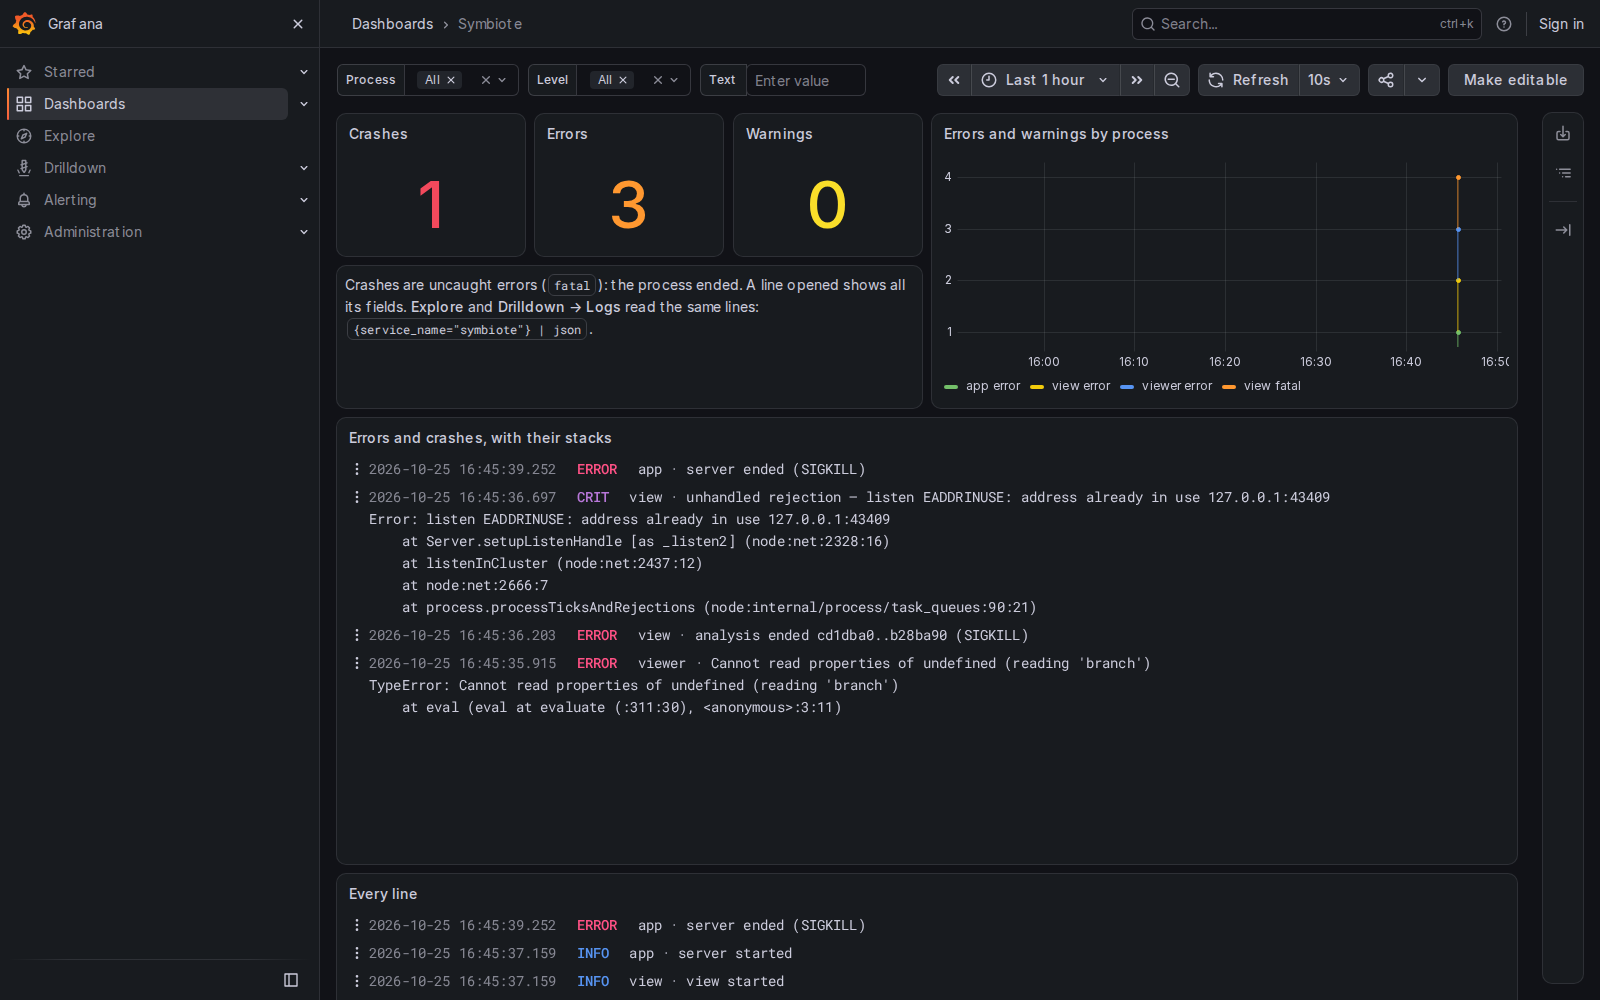
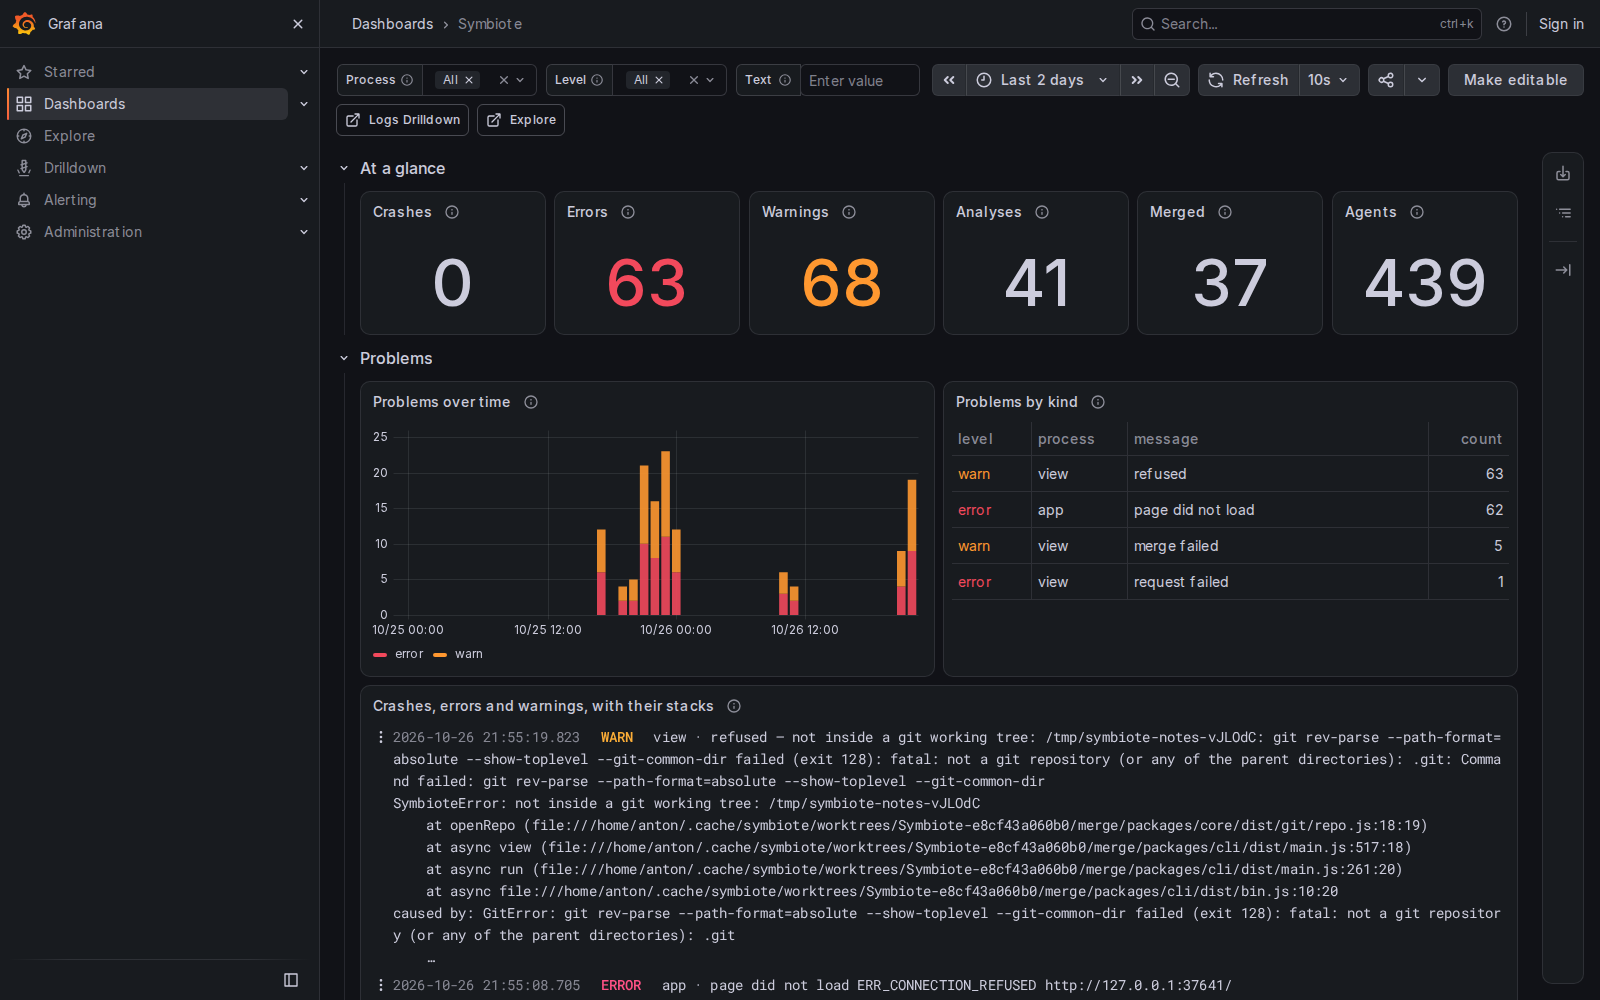
Docs: LG2 as built and its results; the dashboard in the configuration page
The plan's As built (no sparklines: a range query's buckets summed to
4,539 lines where the range held 4,504; rows cut to a message's first
line and a stack's first six, since Grafana 13 opens a row taller than
its panel at its end; tiles renamed to fit at 1440 px) and results; the
journal's entry; the configuration page says what the dashboard shows,
with a new screenshot of the person's two days; the log package's notes
say where the dashboard is checked.

Decisions renumbered 441-444: feature/complete-revamp (V61) took 437-440
from the same main meanwhile.

diff --git a/docs/plan/lg2-dashboard.md b/docs/plan/lg2-dashboard.md
@@ -2,9 +2,10 @@
 
 [Index](../PLAN.md) · [Journal](../journal/lg2-dashboard.md)
 
-**Status:** planned (2026-10-26), on branch `feature/grafana-dashboard` (a workspace started in
-Symbiote, from `main` at `3365699`). Plan OK'd by the person ("1. Yes 2. Yes": the e2e fix in
-LG2, the requests in a section of their own).
+**Status:** ready for review (2026-10-26), on branch `feature/grafana-dashboard` (a workspace
+started in Symbiote, from `main` at `3365699`). Plan OK'd by the person ("1. Yes 2. Yes": the e2e
+fix in LG2, the requests in a section of their own). As built and results under "As built (LG2)"
+below.
 
 **Problem** (asked: "The current grafana dashboard is too simple..Make it more readable."). LG1's
 dashboard, measured on the person's two days of real lines (`~/.cache/symbiote/logs`,
@@ -123,11 +124,61 @@ then `sum by` on an extracted field, `unwrap ms` with `quantile_over_time`, `lab
 
 | # | Question | Decision | Why |
 |---|---|---|---|
-| 437 | What does the dashboard show, in what order? | **At a glance, Problems, Activity, Server (collapsed), Lines; requests only in Server** | the questions in the order they are asked; requests were 41 % of "Every line" |
-| 438 | What does colour mean? | **A level only, the same in every panel (Grafana's log-level colours); 0 in the text colour; other series a fixed colour by name** | a red 0 read as an alarm; series coloured by process and level said nothing of severity |
-| 439 | May tests write into the person's log folder? | **Never: the desktop specs run with `SYMBIOTE_LOG=off`, as the others** | 95 % of the problems shown were the tests' |
-| 440 | How is the dashboard checked? | **Its structure in `pnpm check`; every panel's queries through Grafana in `logs:check`** | a broken dashboard fails silently in Grafana; the queries need Loki, which `pnpm check` must not |
+| 441 | What does the dashboard show, in what order? | **At a glance, Problems, Activity, Server (collapsed), Lines; requests only in Server** | the questions in the order they are asked; requests were 41 % of "Every line" |
+| 442 | What does colour mean? | **A level only, the same in every panel (Grafana's log-level colours); 0 in the text colour; other series a fixed colour by name** | a red 0 read as an alarm; series coloured by process and level said nothing of severity |
+| 443 | May tests write into the person's log folder? | **Never: the desktop specs run with `SYMBIOTE_LOG=off`, as the others** | 95 % of the problems shown were the tests' |
+| 444 | How is the dashboard checked? | **Its structure in `pnpm check`; every panel's queries through Grafana in `logs:check`** | a broken dashboard fails silently in Grafana; the queries need Loki, which `pnpm check` must not |
 
 **Not in LG2 (later)**: `/api/terminals/<id>/paths` requests at `debug` (1,488 of the 3,201
 request lines; a change to the server, not the dashboard); Grafana alerts on a crash; a "hide
 test runs" filter (not needed once the tests write nothing).
+
+## As built (LG2)
+
+- **Decisions 441–444**, planned as 437–440: `feature/complete-revamp` (V61, from the same `main`)
+  took 437–440 meanwhile. The plan's commit (`2f86b20`) still says 437–440.
+- **Tiles without a trend line.** A sparkline needs a range query, and the sum of its buckets is
+  not the count: 4,539 lines where the 24 h held 4,504, since Grafana aligns the start to the step
+  and the first bucket ends before the range. A tile is an exact instant count; the trend is the
+  chart under it.
+- **Tile names that fit**: `Analyses`, `Merged`, `Agents`. With Grafana's menu open, a tile is
+  ~160 px wide at 1440 px, and "Analyses done", "Merges landed" and "Agent terminals" were cut.
+- **A row shows a message's first line and a stack's first six, then `…`**; the whole of both are
+  in the row's details. Grafana 13's list opens with react-window's `scrollToItem(0)` (alignment
+  `auto`): a first row taller than its panel opens scrolled to its end, 444 px down on the real
+  lines (the newest warning: a 3-line message, a 12-line stack). Loki's templates have no
+  `regexFind`: `regexReplaceAll` with `$1`, which Grafana leaves as it is (no variable is named
+  `1`); the static test skips such names. A failed request has both `err` and `answer` (the 500's
+  answer is the error's text): its error's words first.
+- **Activity**: one series, `Slowest analysis` (the median and the slowest were one point: about
+  one analysis an interval); the merges full width (at a third, every row wrapped).
+- **Server**: the response time as points, p50 and p95 (its lines joined points across hours
+  without a request; `insertNulls` did not cut them on 13.2.4; p95 and p99 were two blues alike);
+  the slowest routes full width (at a third, routes were cut and `slowest` hidden).
+- **Colours**: Grafana 13's logs panel draws critical with the named `purple`, error and warning
+  with its theme's error and warning text; the charts and tiles use `purple`, `red`, `orange`.
+  Grafana writes a `fatal` line's level as `CRIT`.
+- **Tables**: an instant query's value field is `Value #A` (`#B`, `#C` for the next queries).
+- **`logs:check`'s lines** carry the check's token in a field of their own: the panels filter on
+  `msg`.
+- The JSON was written once by a scratch script (one template, five panels), then kept as JSON.
+
+**Results.**
+
+- LG2a: `app.spec.ts` wrote 55 lines a run into its cache's folder (21 `app started`, a
+  `page did not load`, a `refused`); none after, no folder made; 19/19 both times.
+- `dashboard.test.ts`: 8 tests, 5 red on LG1's dashboard, green now. `pnpm check`: 1,880 tests in
+  134 files, green.
+- `pnpm logs:check`: red on LG1's dashboard (12 panels missing); green now, all 17 panels' queries
+  through Grafana: 1 crash, 3 errors, 2 warnings, five kinds with `page did not load` twice, 2xx 2,
+  4xx 1, 5xx 1, the terminal's ID out of the route, each row's words, a 10-frame stack cut to six
+  lines. Loki ready 30.1 s after `up`, the 13-day-old line 36–62 s later.
+- The person's two days of lines (7,975) in a second stack: screenshots dark and light at 1440×900,
+  1440 tall and 1920×1080; the Server section opened; Logs Drilldown and Explore followed from the
+  dashboard. A crash in the check's stack: purple in the tile, the bar, the table and the row.
+- The person's dashboard still shows the tests' lines already written until they age (14 days of
+  files, 30 in Loki): 63 errors and 68 warnings over 2 days, 7 of them real.
+
+Not verified: the person's own stack (it reads `main`'s checkout: the new dashboard ~10 s after
+the merge); other Grafana versions than 13.2.4; other browsers than headless Chromium; the full
+e2e suite (only `app.spec.ts` changed, run alone).

diff --git a/docs/journal/lg2-dashboard.md b/docs/journal/lg2-dashboard.md
@@ -28,3 +28,42 @@ over 2 days. Then the queries a fuller dashboard needs, run on their Loki and th
 - **Grafana runs a panel's query for the anonymous viewer**: `POST /api/ds/query` with the
   panel's target and `$__range` in it answers 200 with the frames. The check can run each panel as
   the dashboard does; only the dashboard's own variables are the check's to fill in.
+
+## LG2 — the tests' lines out, the dashboard in sections (2026-10-26, branch `feature/grafana-dashboard`)
+
+`app.spec.ts` runs the app and its servers with `SYMBIOTE_LOG=off` (LG2a). The dashboard in five
+sections, a colour a level, one row template in every list; `dashboard.test.ts` in `pnpm check`;
+`logs:check` writing a line for every panel and running all of them through Grafana (LG2b).
+Decisions 441–444.
+
+**Learned**:
+- **A row taller than its panel opens at its end**: Grafana 13's list calls react-window's
+  `scrollToItem(0)` with alignment `auto`, which scrolls a too-tall item to show its bottom. The
+  problems panel opened 444 px down, mid-stack, with no row header in sight (LG1's dashboard did
+  too, whenever the newest error had a long stack). Rows now show a message's first line and a
+  stack's first six lines; the whole of both are in the row's details.
+- **Loki's templates have `regexReplaceAll` but no `regexFind`**; `$1` in its replacement passes
+  through Grafana, which leaves a `$name` it has no variable for as it is. `int`, `divf` and
+  `printf` work: `2.5 s` for 2,500 ms.
+- **A sparkline's sum is not a count**: summing a range query's buckets gave 4,539 lines where the
+  24 h held 4,504; Grafana aligns the start to the step and the first bucket ends before the
+  range. The tiles are instant counts, with no sparkline.
+- **`insertNulls` did not cut the response time's lines on 13.2.4**: points joined across hours
+  without a request. Points only, as the slowest analysis.
+- **What fits at 1440 px with Grafana's menu open**: a tile is ~160 px, so "Analyses done" was
+  cut; a third of the width wraps a logs row and cuts a table's routes.
+- **`logs:check` shares the dashboards folder with the checkout**: a check running while the JSON
+  is regenerated reads the new file. One run failed on a tile renamed under it.
+- **Decision numbers taken twice**: `feature/complete-revamp` (V61) took 437–440 from the same
+  `main` while LG2 was built: LG2's are 441–444 (its plan commit still says 437–440).
+
+**Verification**: tests first, each red for its reason: `dashboard.test.ts` 5 of 8 red on LG1's
+dashboard (no sections, no level colours, a coloured 0, two templates, no Server section), then
+green; `pnpm logs:check` red (12 panels missing), then green: 17 panels through Grafana, the counts,
+kinds, classes and rows the written lines say. `app.spec.ts` with its cache in a temporary folder:
+55 lines a run before, no folder after, 19/19. `pnpm check`: 1,880 tests. The person's 7,975 lines
+in a second stack: dark and light, 1440×900, 1440 tall, 1920×1080, the Server section open, the
+two links followed; a crash in purple in the check's stack.
+
+Not verified: the person's own stack (it reads `main`'s checkout); other Grafana versions; the
+full e2e suite (only `app.spec.ts` changed).

diff --git a/docs/reference/configuration.md b/docs/reference/configuration.md
@@ -193,7 +193,20 @@ To read the logs in Grafana, run `pnpm logs:up` in Symbiote's folder and open
 http://localhost:3300. It needs Docker, and `pnpm logs:down` stops it. Without Docker, read the
 files with `jq` or `lnav`.
 
-![The Symbiote dashboard in Grafana: a crash, three errors, each error on one line with its stack](../images/logs-dashboard.png)
+The Symbiote dashboard opens first. From the top, it shows:
+
+- the counts for the time range: crashes, errors, warnings, analyses, merged branches and agents;
+- the problems over time and by kind, then each one with the start of its stack (open a row for
+  all its fields and the whole stack);
+- what Symbiote did: the slowest analysis, agents by program, and how each merge ended;
+- the server's requests, folded until you open them;
+- every other line.
+
+Each level has one colour everywhere: crashes are purple, errors red and warnings orange.
+**Process** filters every panel, **Text** filters every list of lines, and **Level** filters the
+last list. **Logs Drilldown** and **Explore** open the same lines.
+
+![The Symbiote dashboard in Grafana over two days: the counts, the problems over time by level and by kind, the newest warning with the start of its stack](../images/logs-dashboard.png)
 
 ## Older names
 

diff --git a/packages/log/CLAUDE.md b/packages/log/CLAUDE.md
@@ -13,6 +13,11 @@ the CLI and the desktop app (which reads no `@symbiote/core`) use it.
 - A line is pino's, with the time as ISO text and the level as a word:
   `{"level":"error","time":"…Z","pid":…,"process":"view",…,"msg":"…","err":{type,message,stack}}`.
   Changing that shape changes what `ops/logs/config.alloy` and the dashboard read.
+- The dashboard (`ops/logs/grafana/dashboards/symbiote.json`, LG2) reads lines by `msg` and the
+  fields above; its rows share one `line_format` template (the same string in every logs panel).
+  `test/dashboard.test.ts` checks its structure in `pnpm check`; `pnpm logs:check` writes a line
+  for every panel and runs each panel's queries through Grafana. A new message or field a panel
+  should show: add it to both.
 - `openLog` writes each line synchronously in one `write` (2.6–3.1 µs a line): on disk when the
   call returns, whole however many processes append. Logging never stops a program: `off`, a
   folder that cannot be made or a failed write writes nothing.

diff --git a/docs/PLAN.md b/docs/PLAN.md
@@ -220,7 +220,7 @@ hosted.
 | ID | What | Status | Decisions | Journal |
 |---|---|---|---|---|
 | [LG1](plan/lg1-logs.md) | Symbiote's logs: lines from every Symbiote process, uncaught errors kept, read by another app (Grafana, Loki) | ready for review | 349–357, 366 | [journal](journal/lg1-logs.md) |
-| [LG2](plan/lg2-dashboard.md) | A readable logs dashboard: at a glance, problems by level and kind, what Symbiote did, the server; the e2e tests' lines out of the person's folder | planned | 437–440 | [journal](journal/lg2-dashboard.md) |
+| [LG2](plan/lg2-dashboard.md) | A readable logs dashboard: at a glance, problems by level and kind, what Symbiote did, the server; the e2e tests' lines out of the person's folder | ready for review | 441–444 | [journal](journal/lg2-dashboard.md) |
 
 ### Docs and the repository
 

diff --git a/docs/JOURNAL.md b/docs/JOURNAL.md
@@ -250,3 +250,4 @@ merge commit.
 - 2026-10-26 [SK1 spike — where skills from another repository live today, and what reads them](journal/sk1-skill-library.md)
 - 2026-10-26 [SK1 — a skill library on the Skills page and for Scribe](journal/sk1-skill-library.md)
 - 2026-10-26 [LG2 spike — what the dashboard shows of two days of real lines](journal/lg2-dashboard.md)
+- 2026-10-26 [LG2 — the tests' lines out, the dashboard in sections](journal/lg2-dashboard.md)
